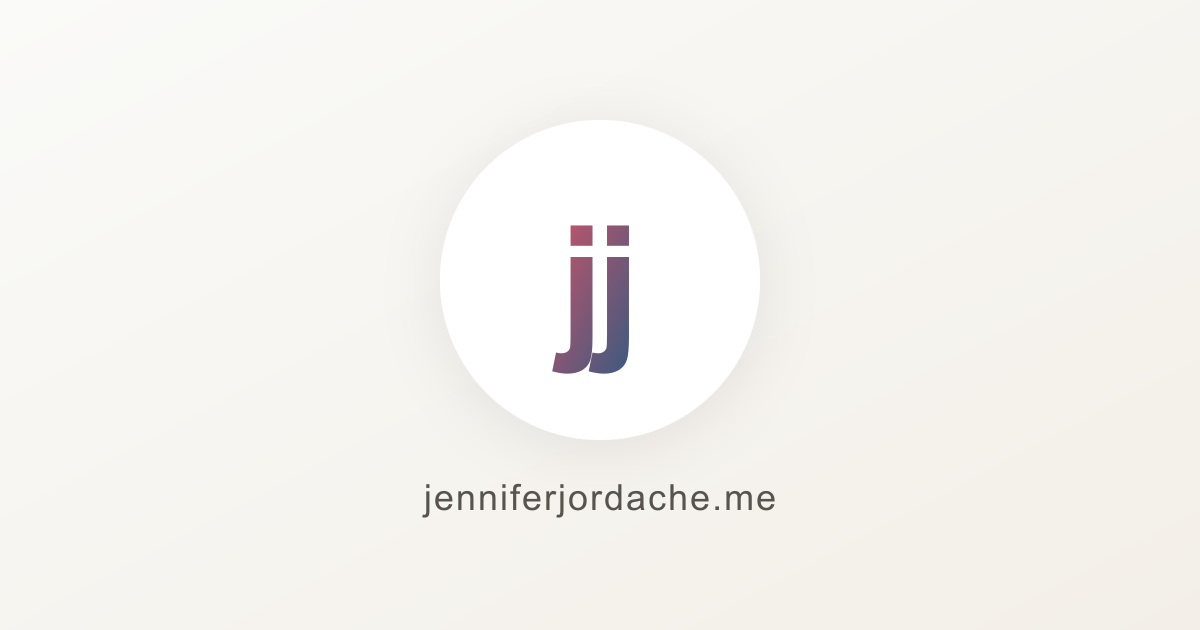
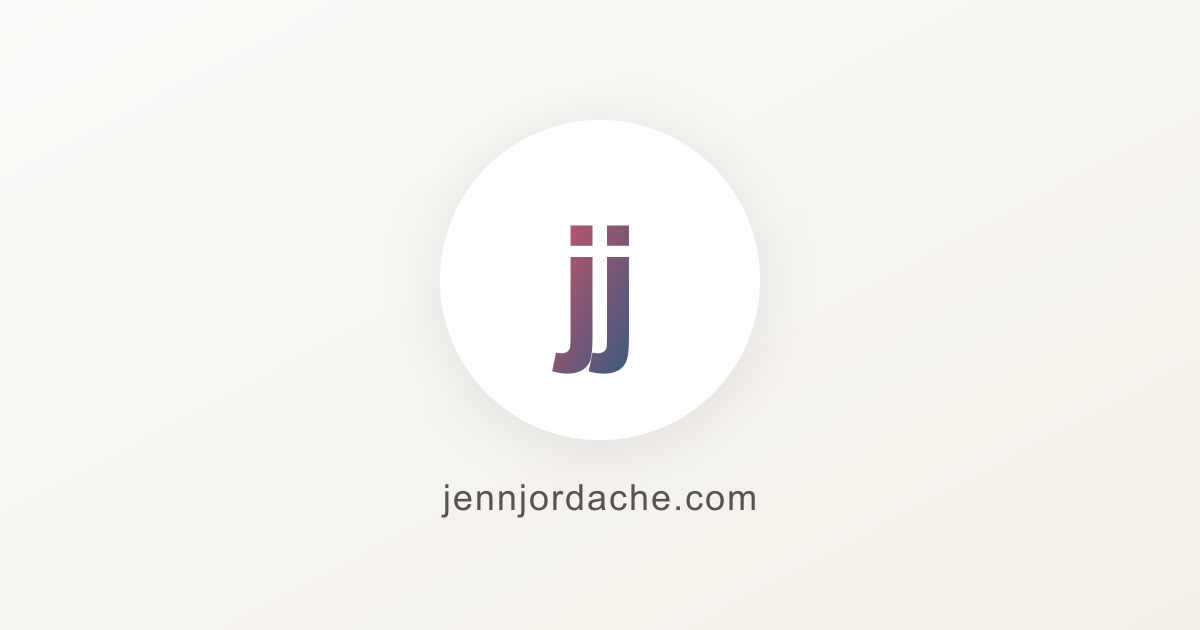
fixed website url

Changed region(s): [[0.3392, 0.754, 0.6475, 0.8143]]

diff --git a/public/index.html b/public/index.html
@@ -3,23 +3,23 @@
   <head>
     <meta charset="utf-8" />
     <link rel="icon" href="%PUBLIC_URL%/favicon.svg" type="image/svg+xml" />
-    <link rel="icon" href="%PUBLIC_URL%/favicon.ico" sizes="any" />
+    <link rel="icon" href="%PUBLIC_URL%/favicon.svg" sizes="any" />
     <meta name="viewport" content="width=device-width, initial-scale=1" />
     <meta name="theme-color" content="#FAFAF8" />
     <meta name="description" content="Jenn Jordache — ML engineer, quantitative finance nerd, and Vancouver-based builder." />
 
     <!-- Open Graph / link previews -->
     <meta property="og:type" content="website" />
-    <meta property="og:url" content="https://jenniferjordache.me" />
+    <meta property="og:url" content="https://jennjordache.com" />
     <meta property="og:title" content="Jenn Jordache" />
     <meta property="og:description" content="ML engineer, quantitative finance nerd, and Vancouver-based builder." />
-    <meta property="og:image" content="https://jenniferjordache.me/og-image.png" />
+    <meta property="og:image" content="https://jennjordache.com/og-image.png" />
 
     <!-- Twitter / iMessage -->
     <meta name="twitter:card" content="summary_large_image" />
     <meta name="twitter:title" content="Jenn Jordache" />
     <meta name="twitter:description" content="ML engineer, quantitative finance nerd, and Vancouver-based builder." />
-    <meta name="twitter:image" content="https://jenniferjordache.me/og-image.png" />
+    <meta name="twitter:image" content="https://jennjordache.com/og-image.png" />
     <link rel="preconnect" href="https://fonts.googleapis.com">
     <link rel="preconnect" href="https://fonts.gstatic.com" crossorigin>
     <link href="https://fonts.googleapis.com/css2?family=Inter:wght@300;400;500;600;700&display=swap" rel="stylesheet">